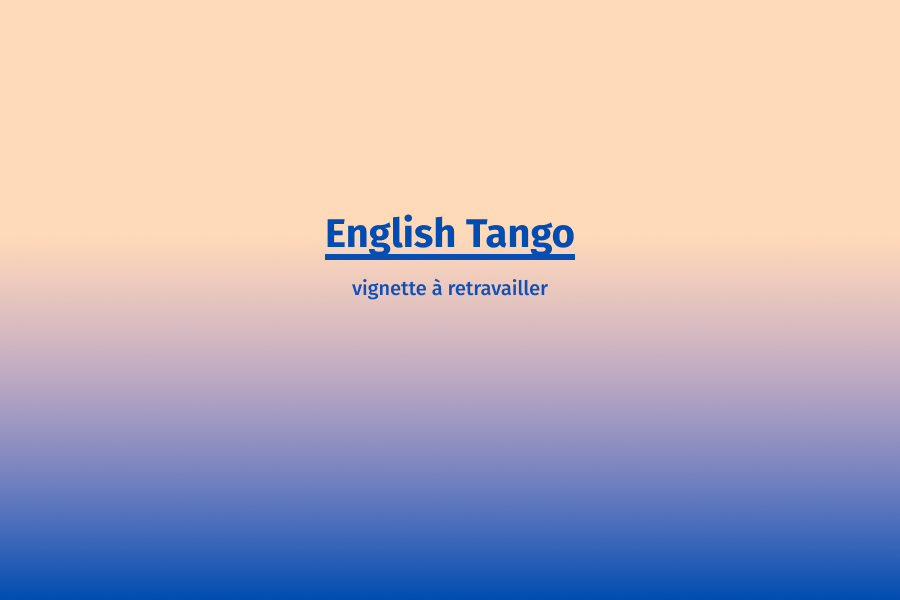
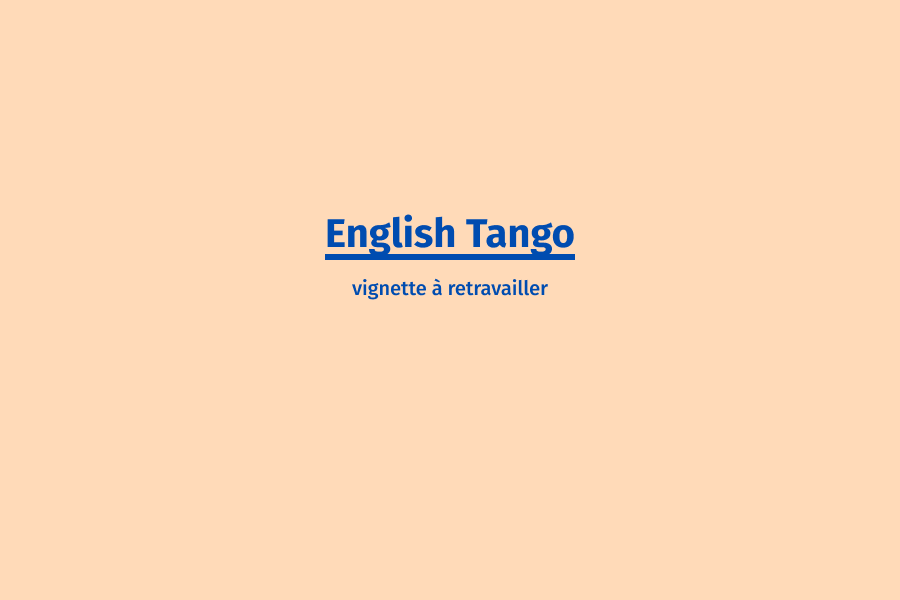
vignettes retravaillés

diff --git a/style/layouts/index/portfolio.css b/style/layouts/index/portfolio.css
@@ -46,8 +46,8 @@
 	width: 100%;
 	aspect-ratio: 3 / 2;
 
-	border-radius: 6px;
-	box-shadow: 0 2px 5px rgba(0, 0, 0, 0.5);
+	border-radius: 2px;
+	box-shadow: 0 2px 5px rgba(0, 0, 0, 0.2);
 
 	display: flex;
 	justify-content: center;
@@ -87,16 +87,27 @@
 	color: #ffffff;
 }
 
-.portfolio-project__color-overlay {
+.portfolio-project__bg-overlay {
 	position: absolute;
 	width: 100%;
 	height: 100%;
 
-	transition: background 0.5s ease;
+	
+	height: 113%;
+	width: 113%;
+
+	background-size: cover;
+	background-position: center;
+	background-repeat: repeat;
+
+	opacity: 1;
+	transition: opacity 0.5s ease, height 0.5s ease, width 0.5s ease;
 }
 
-.portfolio__project:hover .portfolio-project__color-overlay {
-	background: none;
+.portfolio__project:hover .portfolio-project__bg-overlay {
+	height: 100%;
+	width: 100%;
+	opacity: 0;
 }
 
 .portfolio-project__overlay > h3 {
@@ -126,8 +137,8 @@
 
 
 
-.portfolio-project__color-overlay.proj1 {
-	background: rgba(214,129,105,0.3);
+.portfolio-project__bg-overlay.proj1 {
+	background-image: url("../../../media/thumbnail1B.png");
 }
 
 .portfolio-project__bg.proj1 {
@@ -135,16 +146,15 @@
 }
 
 .portfolio-project__gradient.proj1 {
-	background: linear-gradient(rgba(77,117,255,0) 20%, rgba(77,117,255,0.2) 40%, rgba(23,41,107,0.9) 75%, rgba(12,23,61,1) 100%);
+	background: linear-gradient(rgba(77,117,255,0) 40%, rgba(23,41,107,0.2) 50%, rgba(12,23,61,1) 100%);
 }
 
 
 
 
 
-.portfolio-project__color-overlay.proj2 {
-	background: rgba(255, 218, 184, 0.3);
-	
+.portfolio-project__bg-overlay.proj2 {
+	background-image: url("../../../media/thumbnail2B.png");
 }
 
 .portfolio-project__bg.proj2 {
@@ -152,7 +162,7 @@
 }
 
 .portfolio-project__gradient.proj2 {
-	background: linear-gradient(rgba(246,28,204,0) 50%, rgba(246,28,204,0.1) 70%, rgba(0,76,176,0.8) 100%);
+	background: linear-gradient(rgba(246,28,204,0) 40%, rgba(61, 28, 246, 0.1) 50%, rgba(0,76,176,0.8) 100%);
 }
 
 
@@ -164,7 +174,7 @@
 
 
 @media (pointer: coarse) {
-	.portfolio-project__color-overlay.proj1 {
+	.portfolio-project__bg-overlay.proj1 {
 		background: none;
 	}
 	

diff --git a/index.html b/index.html
@@ -83,7 +83,7 @@
 		<div class="portfolio__grid">
 			<div class="portfolio__project" onclick="window.location.href='portfolio.html'">
 				<div class="portfolio-project__bg proj1"></div>
-				<div class="portfolio-project__color-overlay proj1"></div>
+				<div class="portfolio-project__bg-overlay proj1"></div>
 				<div class="portfolio-project__gradient proj1"></div>
 				<div class="portfolio-project__overlay">
 					<h3>MON PORTFOLIO</h3>
@@ -92,7 +92,7 @@
 			</div>
 			<div class="portfolio__project" onclick="window.location.href='englishtango.html'">
 				<div class="portfolio-project__bg proj2"></div>
-				<div class="portfolio-project__color-overlay proj2"></div>
+				<div class="portfolio-project__bg-overlay proj2"></div>
 				<div class="portfolio-project__gradient proj2"></div>
 				<div class="portfolio-project__overlay">
 					<h3>ENGLISH TANGO</h3>
